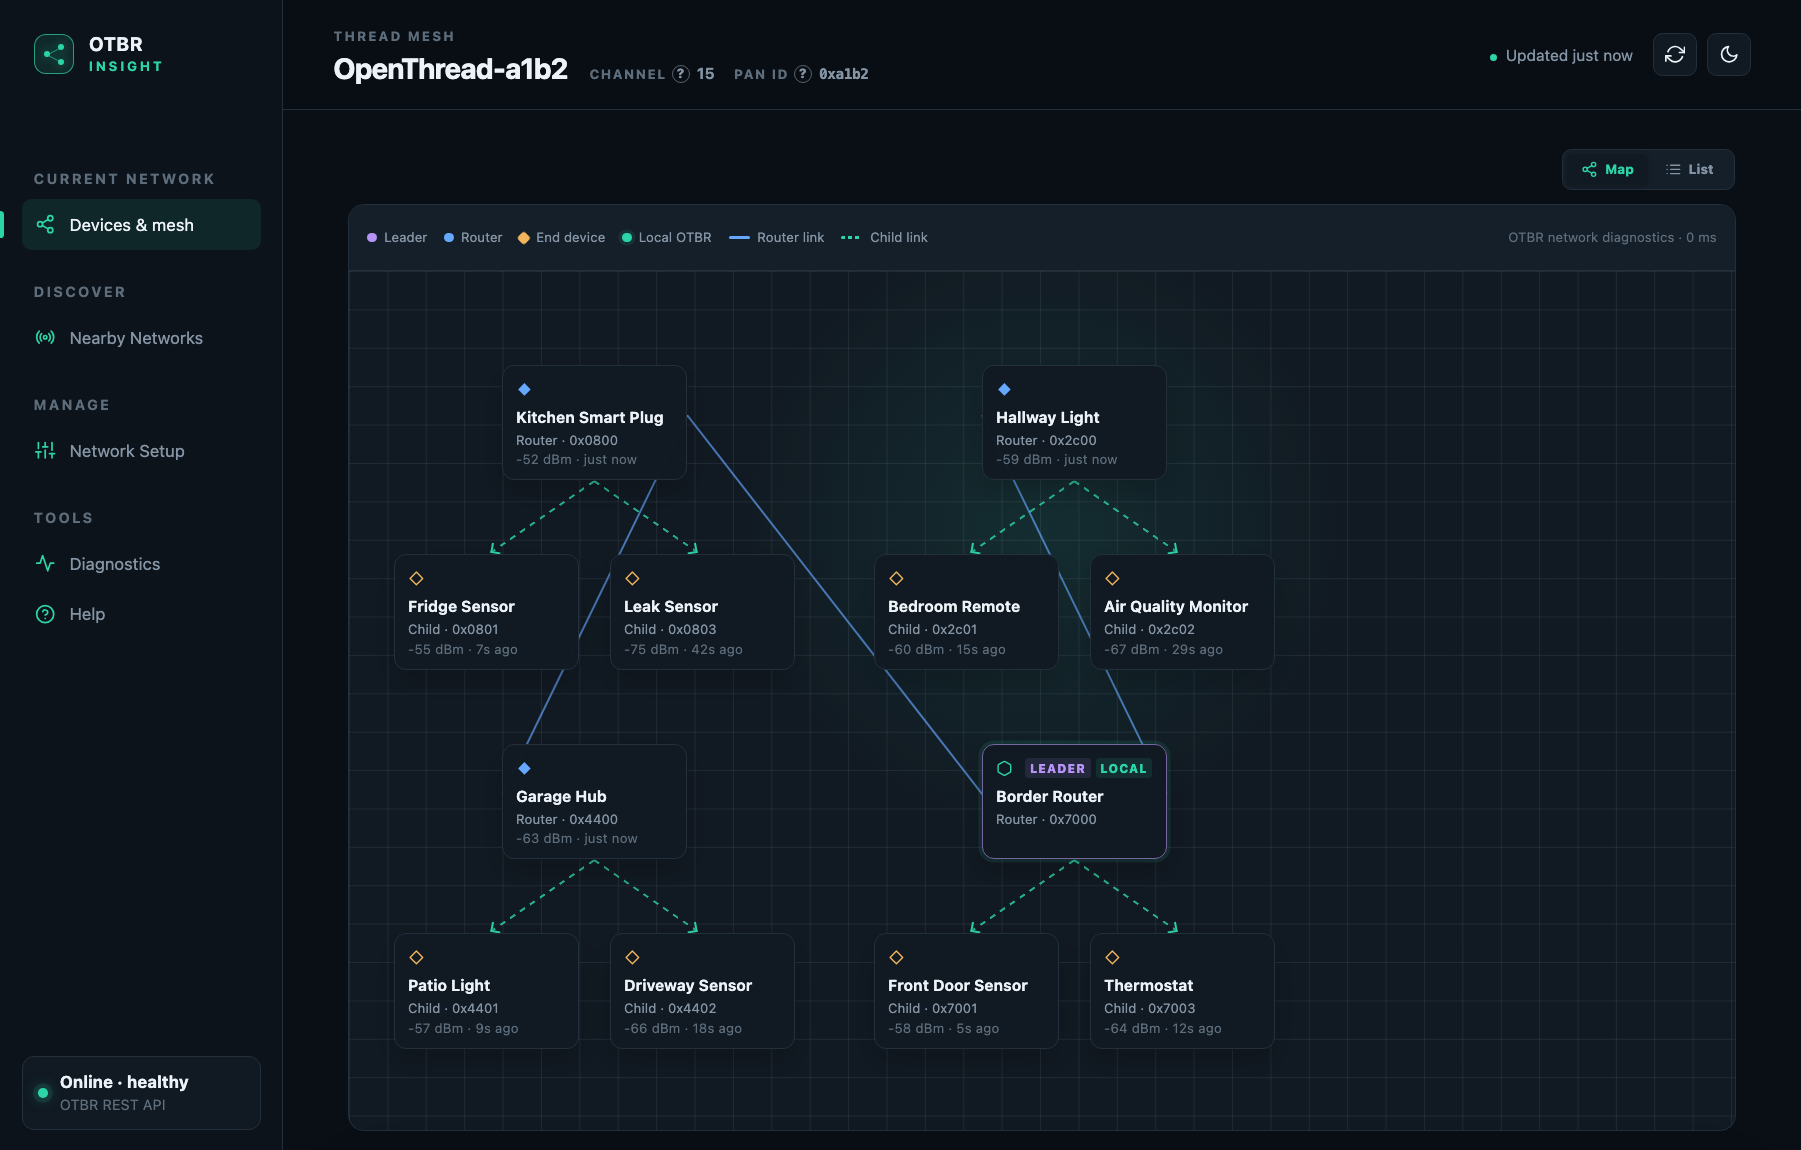
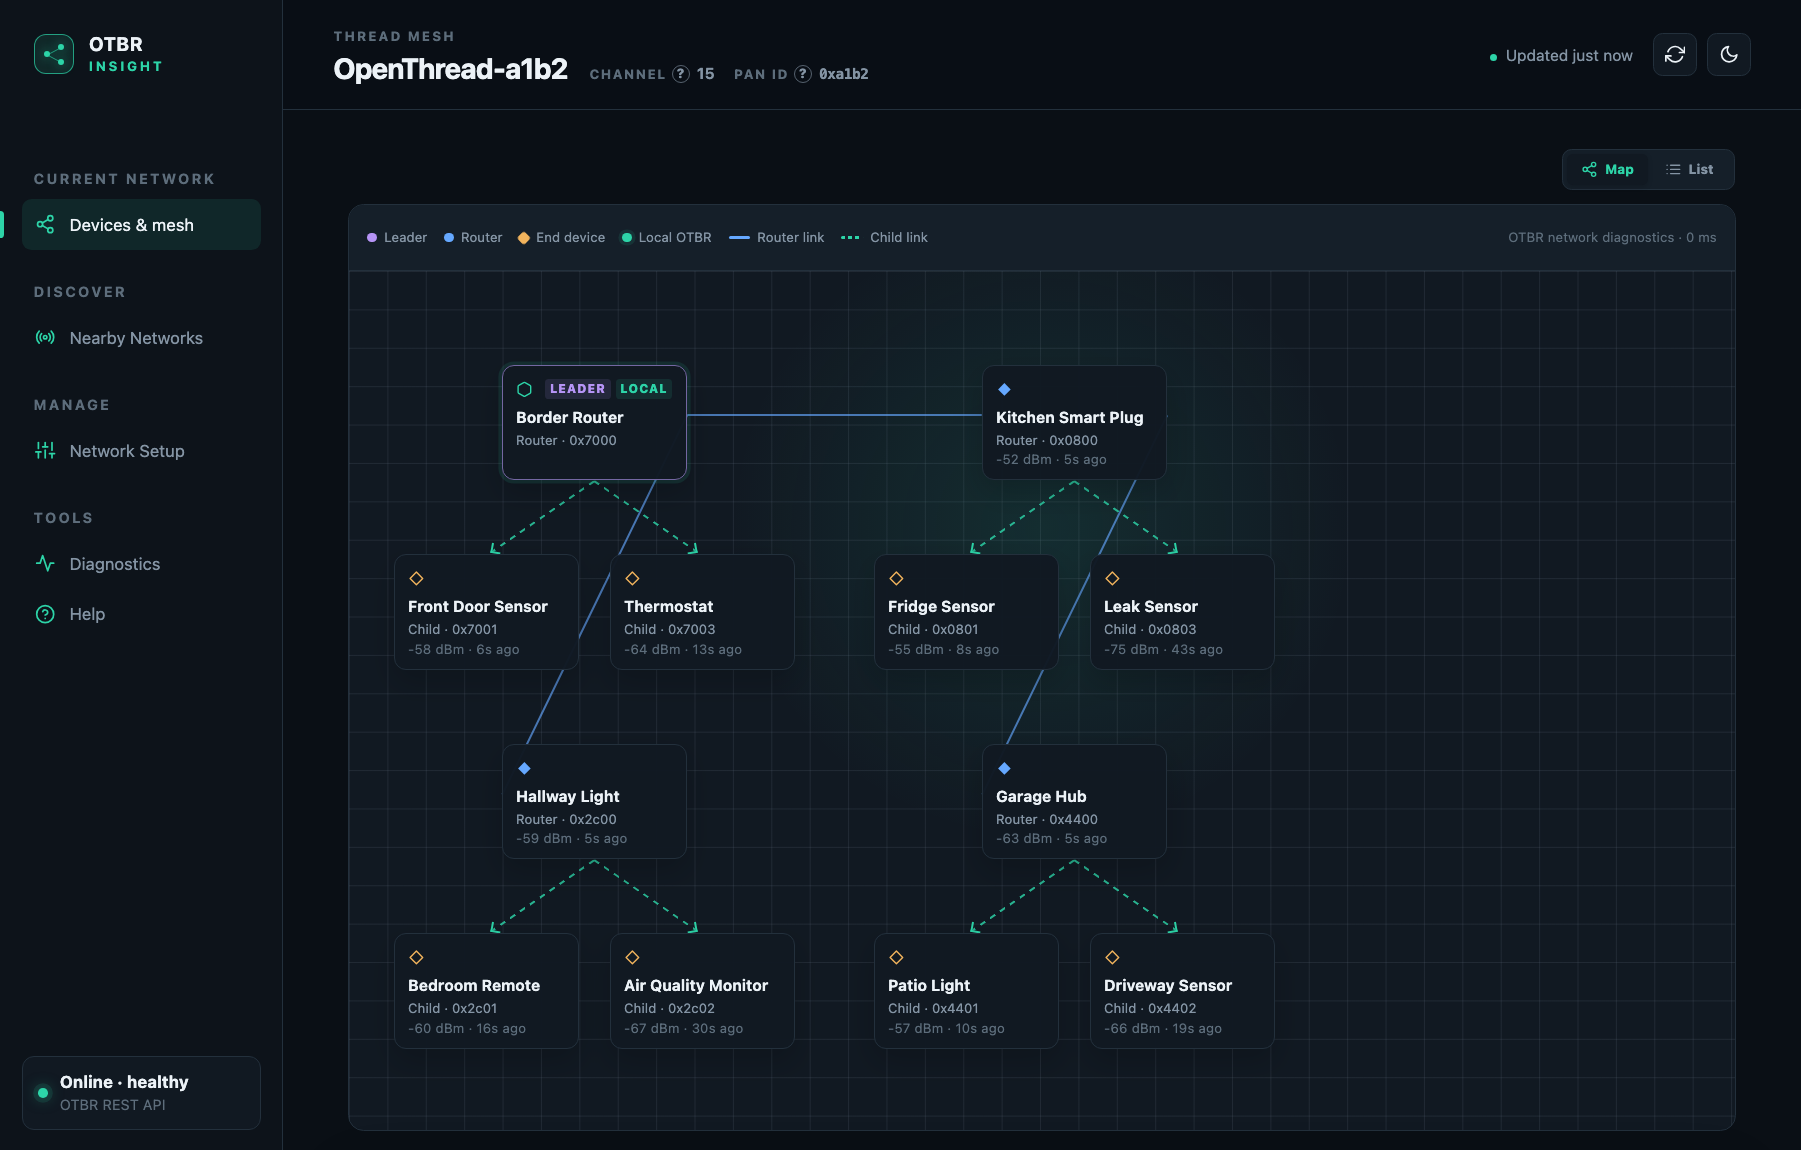
Anchor the mesh map on the local border router
The map inherited the provider's router ordering, which is by router id,
so the one node a reader is certain of landed wherever that id happened
to sort — with four routers the border router held id 28 and was drawn
in the last band, below devices it parents.

Rank the local border router first, then the leader, then everything
else in the order the provider gave. Array sort is stable, so the
remaining routers keep their existing relative order.

Screenshot regenerated against the same synthetic mesh.

diff --git a/web/static/app.js b/web/static/app.js
@@ -703,7 +703,13 @@ function renderTopology() {
   const devices = topologyDevices();
   const inventory = state.devices;
   const diagnosticTopology = Boolean(state.topology?.collectionSupported && (state.topology.nodes || []).length);
-  const routers = devices.filter(isTopologyRouter);
+  // The local border router anchors the map: it is the one node the reader is
+  // certain of, so it leads the first band rather than landing wherever its
+  // router id happens to sort. The leader follows, then everything else in the
+  // order the provider gave (sort is stable, so that order is preserved).
+  const routerRank = device => (device.isBorderRouter ? 0 : device.role === 'leader' ? 1 : 2);
+  const routers = devices.filter(isTopologyRouter)
+    .sort((left, right) => routerRank(left) - routerRank(right));
   const children = devices.filter(device => !isTopologyRouter(device));
   const attachments = new Map();
   children.forEach(device => {

diff --git a/CLAUDE.md b/CLAUDE.md
@@ -38,7 +38,7 @@ OTBR REST API → internal/otbr (Client) → internal/service (Monitor) → inte
 - **`internal/otbr` network.go** — the dataset read/write layer. `ActiveDataset` reads `/node/dataset/active` and **masks `networkKey`/`pskc`** (reports only `hasNetworkKey`/`hasPskc`) so the polled read path never carries Thread credentials. `FormNetwork` generates a complete dataset (random key/pskc/extPanId/meshLocalPrefix) locally rather than relying on OTBR to fill blanks; `JoinNetwork` builds one from supplied creds. Both go through `applyDataset`, which must **disable → PUT active dataset → enable** (the active dataset can't be replaced while the interface is up). `LeaveNetwork` = disable + `DELETE` dataset (the REST-only stand-in; true `factoryreset` needs ot-ctl, which we deliberately don't use). **TLV interchange**: `ActiveDatasetTLV` exports the dataset as hex TLV (`text/plain` GET) — surfaced in the on-demand credential reveal for pasting into other border routers (Home Assistant's "Add dataset from TLV"); `JoinNetworkTLV` imports one via `PUT text/plain` through the shared `applyDatasetRaw`. Credentials (key/pskc/TLV) are served **only** from `GET /api/v1/network/credentials`, never the polled path, and never logged.
 - **`internal/backup`** — persists a single snapshot of the previous operational dataset (TLV hex, **network key in plaintext**) at `<data-dir>/dataset-backup.json`. The API's `snapshot` helper saves the current dataset before every destructive change (form/join/join-tlv/leave/restore) so `POST /api/v1/network/restore` can put it back; devices then auto-reconnect since credentials match. The TLV is used server-side only — `GET /api/v1/network` exposes just `backup` metadata (name + savedAt), never the TLV.
 - **`internal/names`** — persists local state: a file-backed (`<data-dir>/names.json`, atomic write) map of extended address → user label. Fed by the two write endpoints `PUT`/`DELETE /api/v1/devices/{ext}/name`. Disabled (no-op, `ErrDisabled`) when no data dir is configured. Data dir resolves from `--data-dir`/`OTBR_INSIGHT_DATA_DIR`, else systemd's `STATE_DIRECTORY`, else the user config dir; the systemd unit sets `StateDirectory=otbr-insight` (`/var/lib/otbr-insight`).
-- **Frontend structure** (`web/static/index.html`) — four hash-routed views toggled by `syncNavigation` on `[data-view]`/`[data-nav]`: `home`, `network` (nearby scan), `help`, `manage` (setup). `home` is the landing and the default for any unknown hash; the pre-merge hashes `#overview`, `#devices` and `#topology` all fold into it so old bookmarks still resolve. `home` leads with the **mesh map** — a Map/List switch (`[data-device-mode]` toggling `[data-device-panel]`), then the topology stage or the device table — and puts the network identity and border-router/runtime details underneath in two `<details>` panels (`#networkDetailsDisclosure`, `#borderRouterDisclosure`) that stay collapsed until clicked. The page title is the live network name (`homeTitle()`, falling back to "Thread network" before the first poll) with channel and PAN ID beside it in `#titleMeta`, which is shown only on `home`. The map draws **one cluster per router** — the router with its own children wrapped beneath it — and packs clusters left to right, wrapping to a new band when the next will not fit; `topologyGrid` is now used only for the unresolved-parent band. Column count comes from the scroll container's `clientWidth`, and each cluster is capped at roughly half that (`clustersPerBand`) so two sit side by side rather than stacking into one tall column. This went through two earlier shapes: a single unwrapped row sized the stage from the largest layer (`largestLayer * 180 + 80`), so 36 children made it 6380px wide with 18% of the map on screen; wrapping that into one shared grid fixed the width but left a dense fan of long crossing child links. Clustering keeps every child link short and local. Horizontal scroll stays at 1.0x at any device count; the cost is height (36 children ≈ 1700px). The column count is part of the render-cache signature, so a window resize re-flows rather than hitting the cache. The detail views label the **mesh-local** address alongside the OMR one: it is reachable only inside the mesh (a browser on the LAN has no route to that prefix) but, unlike RLOC16, survives roaming, so it is the stable handle for `ot-ctl ping` while RLOC16s churn. `meshLocalAddress` picks it by matching the overview's mesh-local prefix. Each node card carries a second small line with the measured link and how long ago the device was heard (`-68 dBm · 5s ago`), shown only where a link was actually measured — the local border router has no link to itself, and a bare "just now" there would say nothing. The card height lives in `TOPOLOGY_NODE_HEIGHT`, which the edge geometry and the cluster layout both read; it must match the CSS `min-height` or edges detach from the boxes. Cluster width is capped to fit two per band **only when the natural layout does not fit** — capping unconditionally wrapped three children onto two rows with room to spare. Selecting a map node opens `#devicePopover`, a fixed non-modal panel in the same family as the term-help and rename popovers (dismissed by its ×, Escape, an outside click, re-clicking the node, switching to List, or navigating away) — it replaced a docked inspector column so the map gets the full width.
+- **Frontend structure** (`web/static/index.html`) — four hash-routed views toggled by `syncNavigation` on `[data-view]`/`[data-nav]`: `home`, `network` (nearby scan), `help`, `manage` (setup). `home` is the landing and the default for any unknown hash; the pre-merge hashes `#overview`, `#devices` and `#topology` all fold into it so old bookmarks still resolve. `home` leads with the **mesh map** — a Map/List switch (`[data-device-mode]` toggling `[data-device-panel]`), then the topology stage or the device table — and puts the network identity and border-router/runtime details underneath in two `<details>` panels (`#networkDetailsDisclosure`, `#borderRouterDisclosure`) that stay collapsed until clicked. The page title is the live network name (`homeTitle()`, falling back to "Thread network" before the first poll) with channel and PAN ID beside it in `#titleMeta`, which is shown only on `home`. The map draws **one cluster per router** — the router with its own children wrapped beneath it — and packs clusters left to right, wrapping to a new band when the next will not fit; Clusters are ordered **local border router first, then the leader, then the provider's order** (`routerRank`, with a stable sort): the map previously inherited the API's router-id ordering, which put the one node the reader is certain of wherever its id happened to sort — id 28 of 4 routers landed it in the last band. `topologyGrid` is now used only for the unresolved-parent band. Column count comes from the scroll container's `clientWidth`, and each cluster is capped at roughly half that (`clustersPerBand`) so two sit side by side rather than stacking into one tall column. This went through two earlier shapes: a single unwrapped row sized the stage from the largest layer (`largestLayer * 180 + 80`), so 36 children made it 6380px wide with 18% of the map on screen; wrapping that into one shared grid fixed the width but left a dense fan of long crossing child links. Clustering keeps every child link short and local. Horizontal scroll stays at 1.0x at any device count; the cost is height (36 children ≈ 1700px). The column count is part of the render-cache signature, so a window resize re-flows rather than hitting the cache. The detail views label the **mesh-local** address alongside the OMR one: it is reachable only inside the mesh (a browser on the LAN has no route to that prefix) but, unlike RLOC16, survives roaming, so it is the stable handle for `ot-ctl ping` while RLOC16s churn. `meshLocalAddress` picks it by matching the overview's mesh-local prefix. Each node card carries a second small line with the measured link and how long ago the device was heard (`-68 dBm · 5s ago`), shown only where a link was actually measured — the local border router has no link to itself, and a bare "just now" there would say nothing. The card height lives in `TOPOLOGY_NODE_HEIGHT`, which the edge geometry and the cluster layout both read; it must match the CSS `min-height` or edges detach from the boxes. Cluster width is capped to fit two per band **only when the natural layout does not fit** — capping unconditionally wrapped three children onto two rows with room to spare. Selecting a map node opens `#devicePopover`, a fixed non-modal panel in the same family as the term-help and rename popovers (dismissed by its ×, Escape, an outside click, re-clicking the node, switching to List, or navigating away) — it replaced a docked inspector column so the map gets the full width.
 - **Hiding elements**: use the `.hidden` class (`display: none !important`), never the bare `hidden` attribute. Several components set `display` in their own rules, which beats the UA stylesheet's `[hidden] { display: none }` — an element can carry `hidden` and still render.
 - **`web/static/app.js`** — single-page vanilla JS; polls the internal API only, never OTBR directly. The CSP is `'self'`-only with no inline allowance, so no inline `<script>`/`<style>`/event handlers in `index.html`. Display names prefer `customName` (see `deviceLabel`); the rename popover is a fixed element outside the polled device containers so a background refresh can't clobber an in-progress edit.
 
